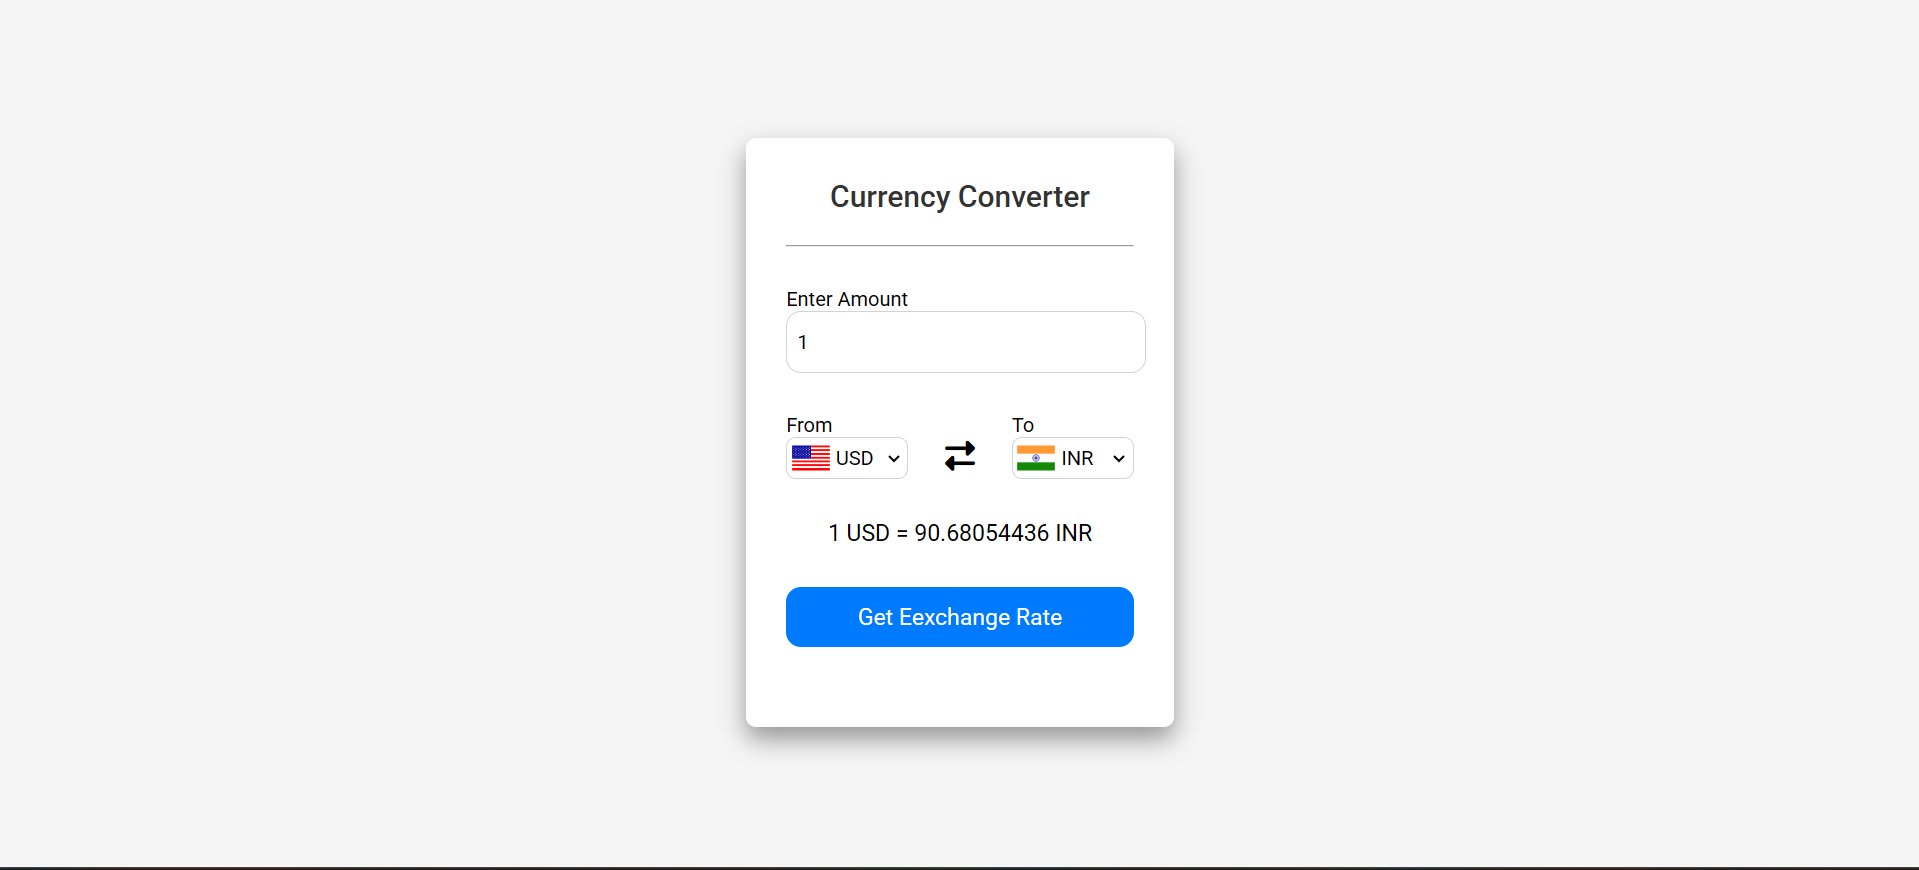
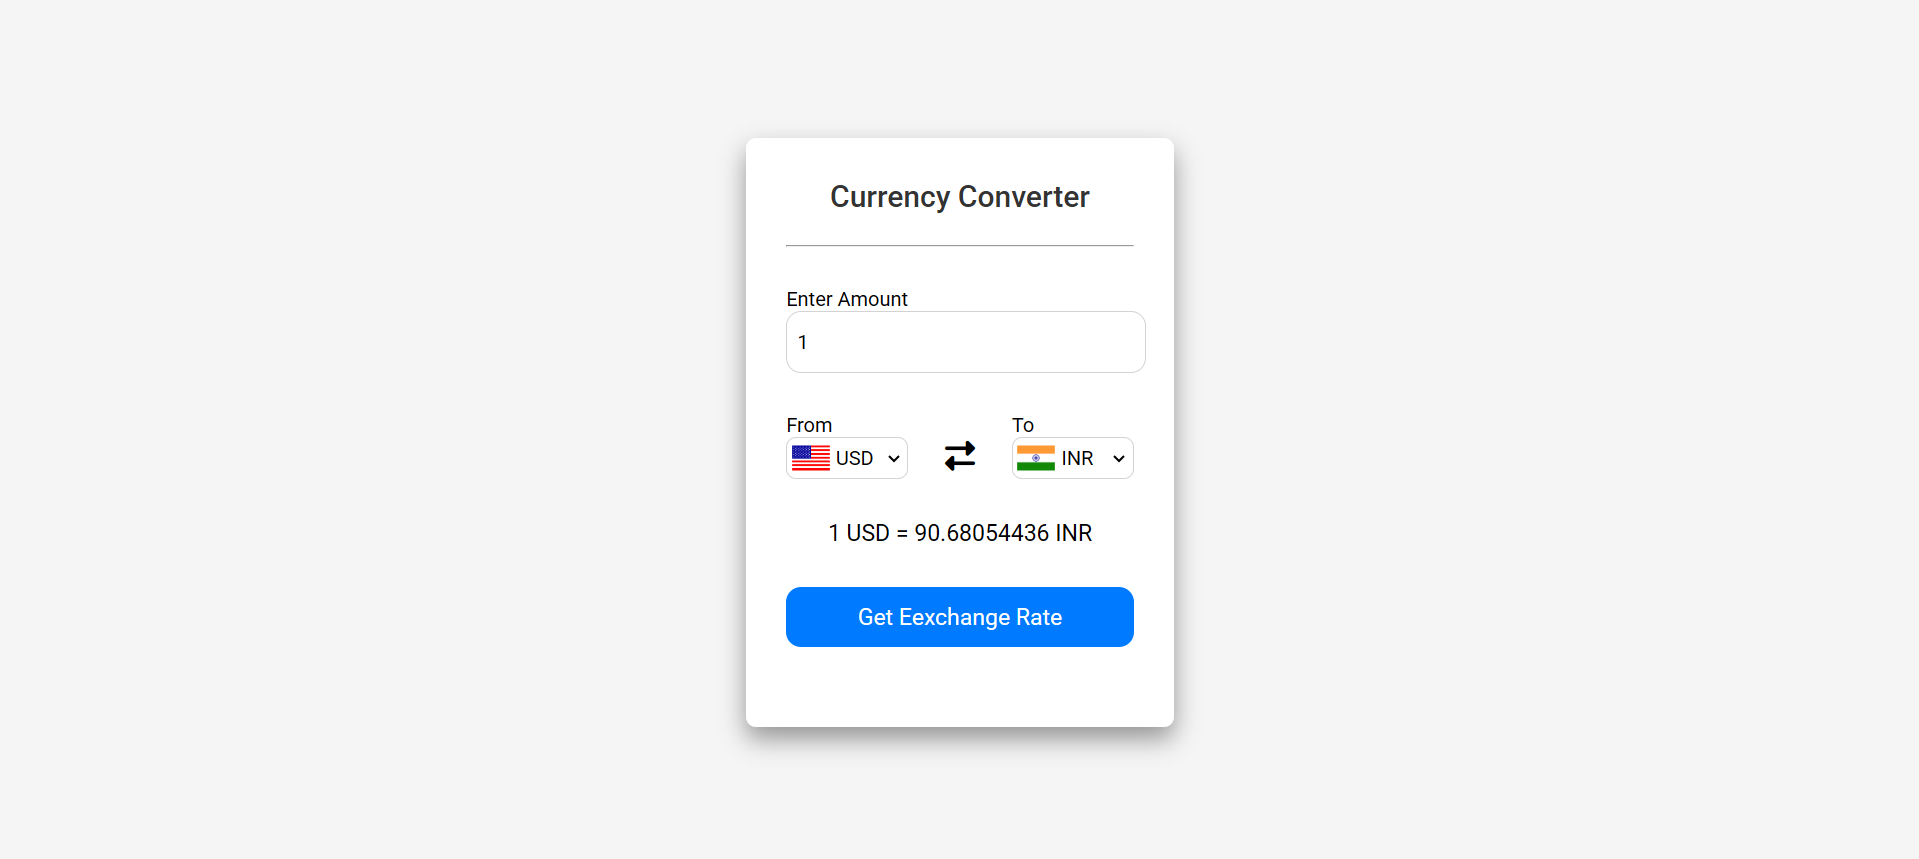
fixed design issue

diff --git a/src/components/Layout.tsx b/src/components/Layout.tsx
@@ -8,7 +8,7 @@ interface LayoutProps {
 
 export function Layout({ children }: LayoutProps) {
   return (
-    <div className="min-h-screen w-full flex justify-center p-6 md:p-12 pb-32 relative">
+    <div className="min-h-screen w-full flex justify-center p-6 md:p-12 relative">
       <SidePatterns />
 
       <div className="w-full max-w-2xl space-y-12 relative z-10">
